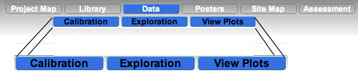
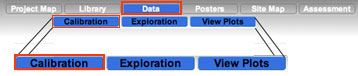
Improvements to the milestones and text associated with the new version of Calibration.

Changed region(s): [[0.1229, 0.0, 0.5223, 0.2105], [0.0307, 0.7105, 0.3073, 0.9211], [0.1229, 0.3158, 0.338, 0.3947]]

diff --git a/branches/2.0/cms/src/jsp/references/Reference_cms_design_study.html b/branches/2.0/cms/src/jsp/references/Reference_cms_design_study.html
@@ -9,28 +9,20 @@ Now that you've grasped the big picture and some fundamental physics behind the 
 
  -->
 
-<p><a href="javascript:showRefLink('../library/ref-studies.jsp',550,400)">Calibration Studies</a>  - descriptions of studies that will be the basis of your investigation. Warm up with simulated (Monte Carlo) data and then work with experimental data under the Exploration tab. <a href=
-  "javascript:showRefLink('../library/ref-MCvRunData.jsp',500,600)">What's the difference?</a>.
-<P>
-Put it altogether. Describe your study in your logbook.</p>
-
-<P>
-<A HREF="javascript:showRefLink('../jsp/logEntry.jsp?keyword=cms_design_study',700,600)"><b>Log it!</b><IMG SRC="../graphics/logbook_pencil.gif" border="0"  align="middle"></A>            
-
-
-<p>You can begin your study by going straight to the analysis tool. 
-
-<ol>
-<li>Click on "Calibration" under "Data" in the navigation bar to work with simulated data.
-<li> Click on "Exploration" to analyze experimental data.
-</ol>
- 
+<p><a href="javascript:showRefLink('../library/ref-studies.jsp',550,400)">Calibration Studies</a> - Read some background material.</P>
+<p>Begin your study by going straight to the analysis tool by clicking on "Calibration" under "Data" in the navigation bar.</P>
 
 <br><img src="../graphics/calibration-menu.jpg"><p>
  </p>
 
 
 <p>This <A HREF="javascript:showRefLink('../video/demos-calibration.html?video=data-selection',800,800)">screencast</a> shows how to use the analysis tool.</p>	
+
+<P>
+Put it altogether. Describe your study in your logbook.</p>
+
+<P>
+<A HREF="javascript:showRefLink('../jsp/logEntry.jsp?keyword=cms_design_study',700,600)"><b>Log it!</b><IMG SRC="../graphics/logbook_pencil.gif" border="0"  align="middle"></A>            
 
 <P>When you are finished, check to see if you should attend a milestone seminar.</P>
 

diff --git a/branches/2.0/cms/src/jsp/references/Reference_cms_data_selection.html b/branches/2.0/cms/src/jsp/references/Reference_cms_data_selection.html
@@ -1,12 +1,11 @@
 <b>Milestone: Select appropriate data from the data set.</b>
 <P>      
 <I>Scientists need data to answer their research questions.</i>
-<p>CMS data comes in runs of varying length and consists of events. Physicists filter the data so they can look at specific event types (e.g., events with two muons).
+<p>Physicists filter the data so they can look at specific event types (e.g., events with two muons).
 </p>
 <p>Your study question will guide the data you choose.</p>
   
-<div>Click on "Calibration" under "Data" in the navigation bar to select simulated data.<br><img src="../graphics/calibration-menu.jpg"><p>
- <p>Click on "Exploration" to select experimental data.</p>
+<div>Click on "Calibration" under "Data" in the navigation bar to select your data.<br><img src="../graphics/calibration-menu.jpg"><p>
  </div>
 <p>This <A HREF="javascript:showRefLink('../video/demos-calibration.html?video=data-selection',800,800)">screencast demo</a> shows how to use the analysis tool.</p>	
 
